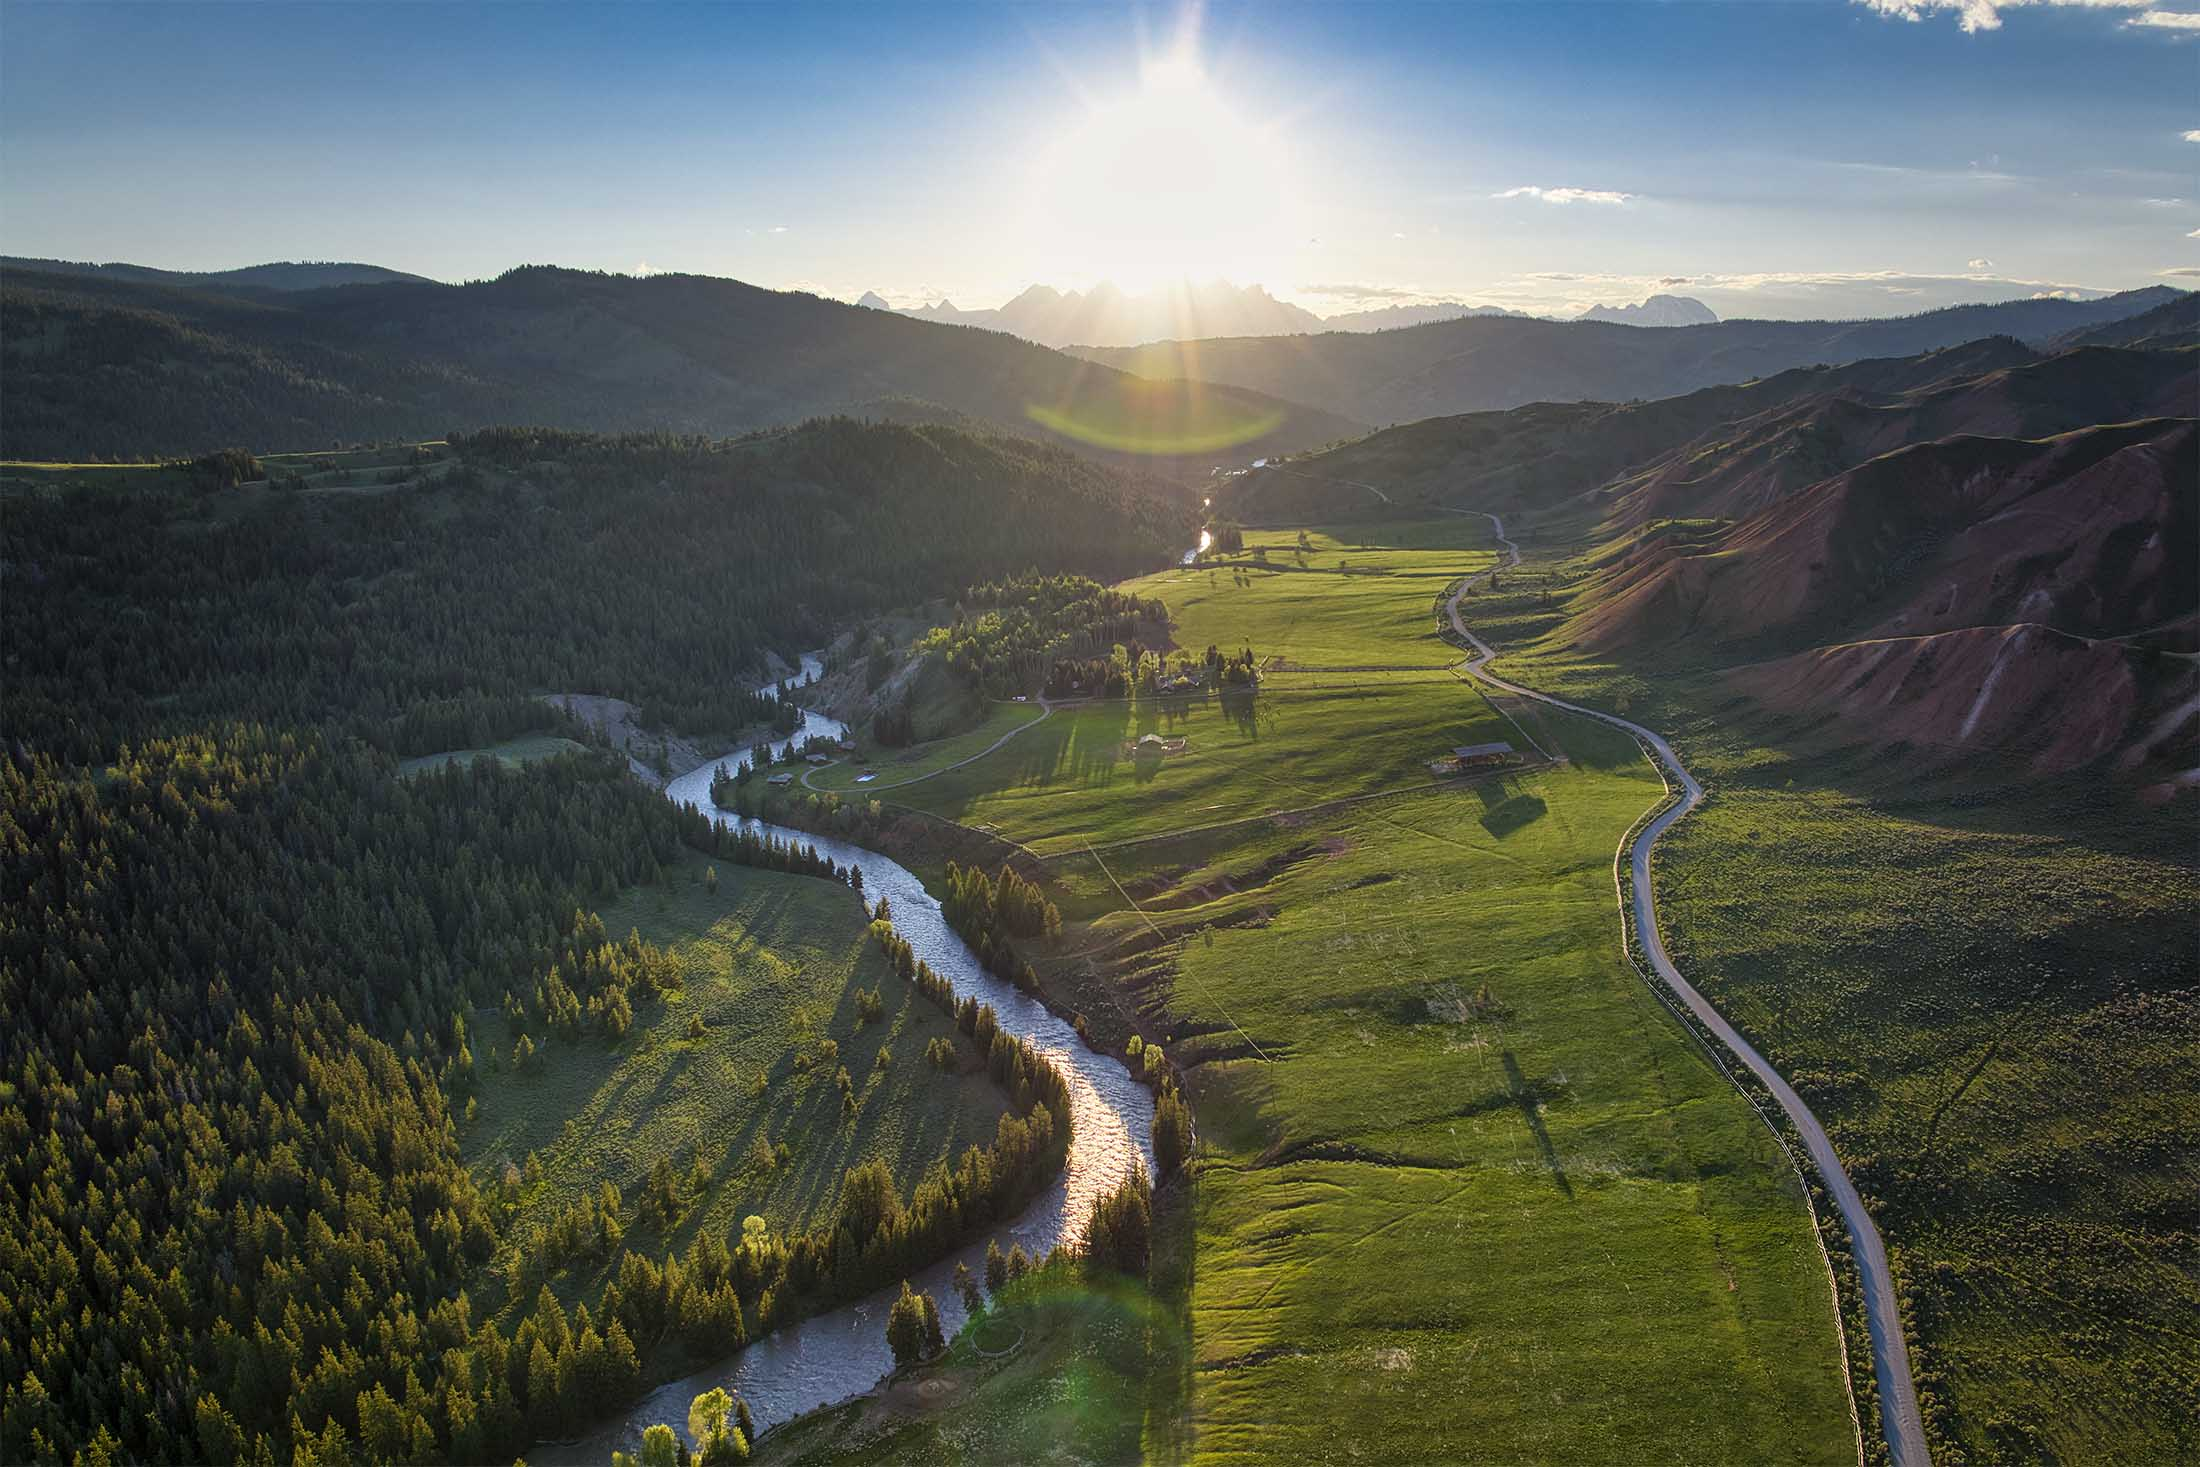
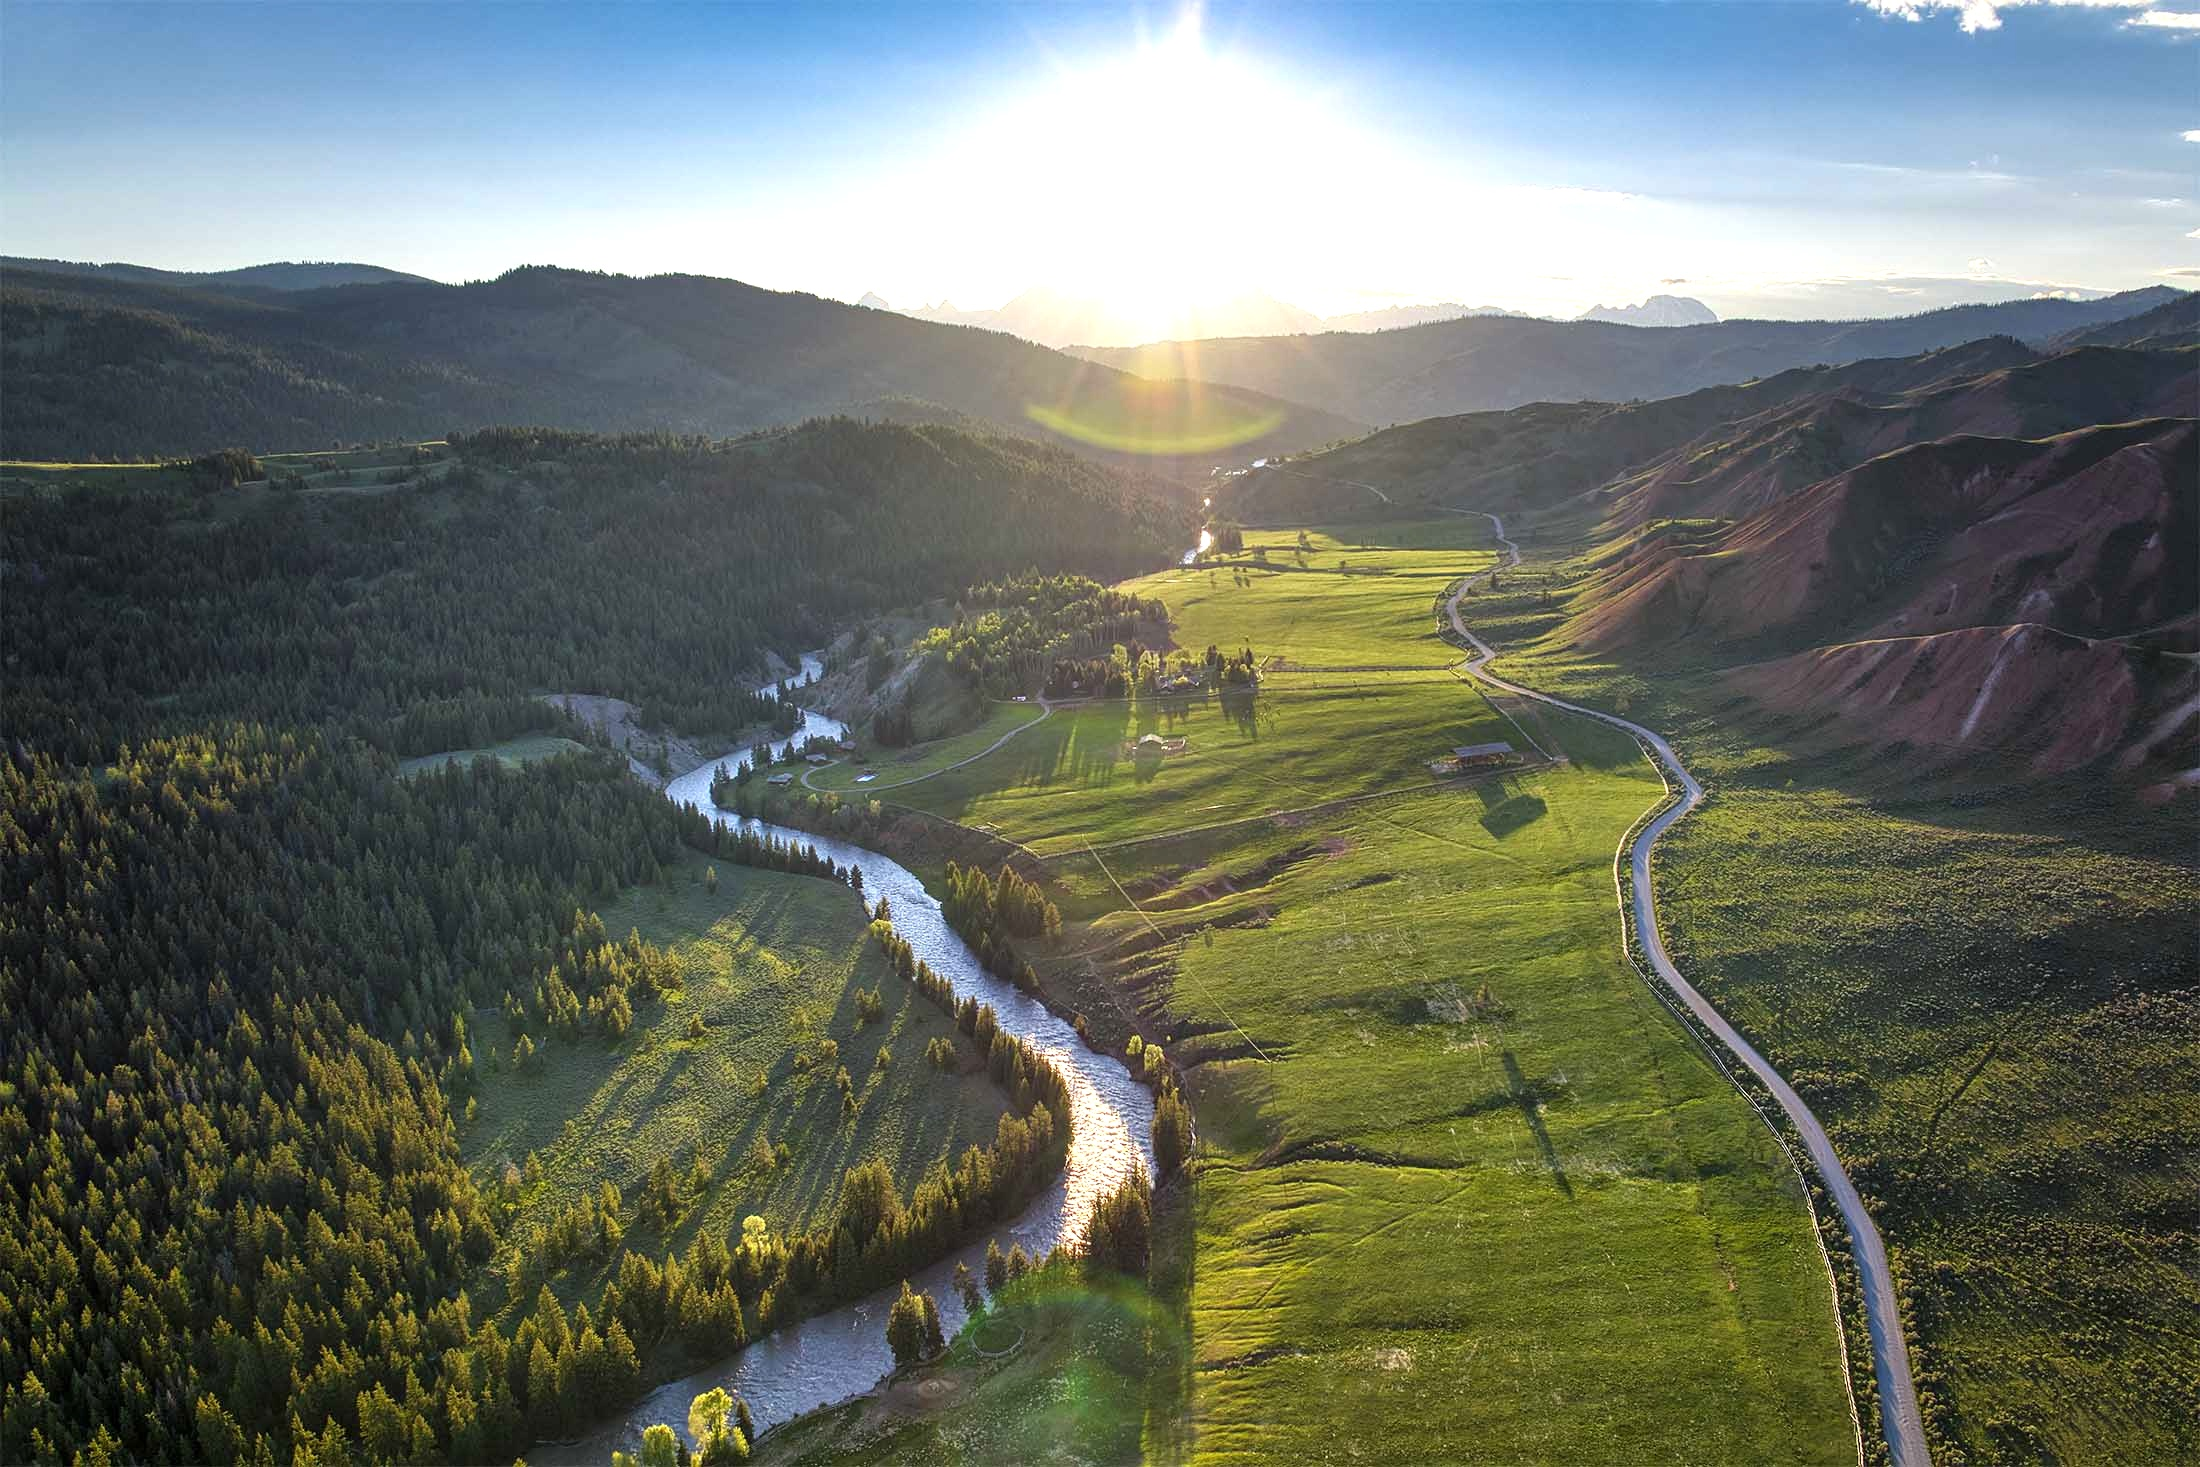
Fix page copy, hero/buckle presentation, and brighten ranch images

diff --git a/styles.css b/styles.css
@@ -228,6 +228,14 @@ main {
   min-height: 55vh;
 }
 
+.barrelconnect-hero img {
+  object-position: center 22%;
+}
+
+.barrelconnect-hero .overlay {
+  background: linear-gradient(180deg, rgba(3, 7, 10, 0.22), rgba(4, 8, 12, 0.58));
+}
+
 .brand-accent-barrel {
   color: #85d5ff;
 }
@@ -238,7 +246,15 @@ main {
 
 .buckle-wrap {
   max-width: 380px;
-  margin: 1rem auto 0;
+  margin: 1.5rem auto 0;
+  padding-top: 0.8rem;
+}
+
+.buckle-wrap img {
+  width: 100%;
+  height: auto;
+  object-fit: contain;
+  object-position: center;
 }
 
 .contact-layout {

diff --git a/index.html b/index.html
@@ -61,19 +61,12 @@
         </article>
       </section>
 
-      <section class="card" style="margin-top: 1rem;">
-        <h3 class="section-title">Design Direction</h3>
-        <p>
-          This site follows the clean, image-forward, high-contrast style found on the portfolio apps: strong hero sections, subtle overlays, clear typography, and straightforward calls-to-action.
-        </p>
-        <p class="small-note">Part of Apps 1 LLC Portfolio - More apps coming.</p>
-      </section>
     </main>
 
     <footer class="site-footer">
       <div class="footer-wrap">
         <div>© <span data-year></span> Apps 1, LLC. All rights reserved.</div>
-        <div>Built for Vercel static deployment</div>
+        <div>Apps 1, LLC Portfolio</div>
       </div>
     </footer>
 

diff --git a/barrelconnect.html b/barrelconnect.html
@@ -23,7 +23,7 @@
       </div>
     </header>
 
-    <section class="hero app-hero">
+    <section class="hero app-hero barrelconnect-hero">
       <img src="assets/images/barrelconnect-hero.png" alt="Barrelconnect app hero" />
       <div class="overlay"></div>
       <div class="hero-content">